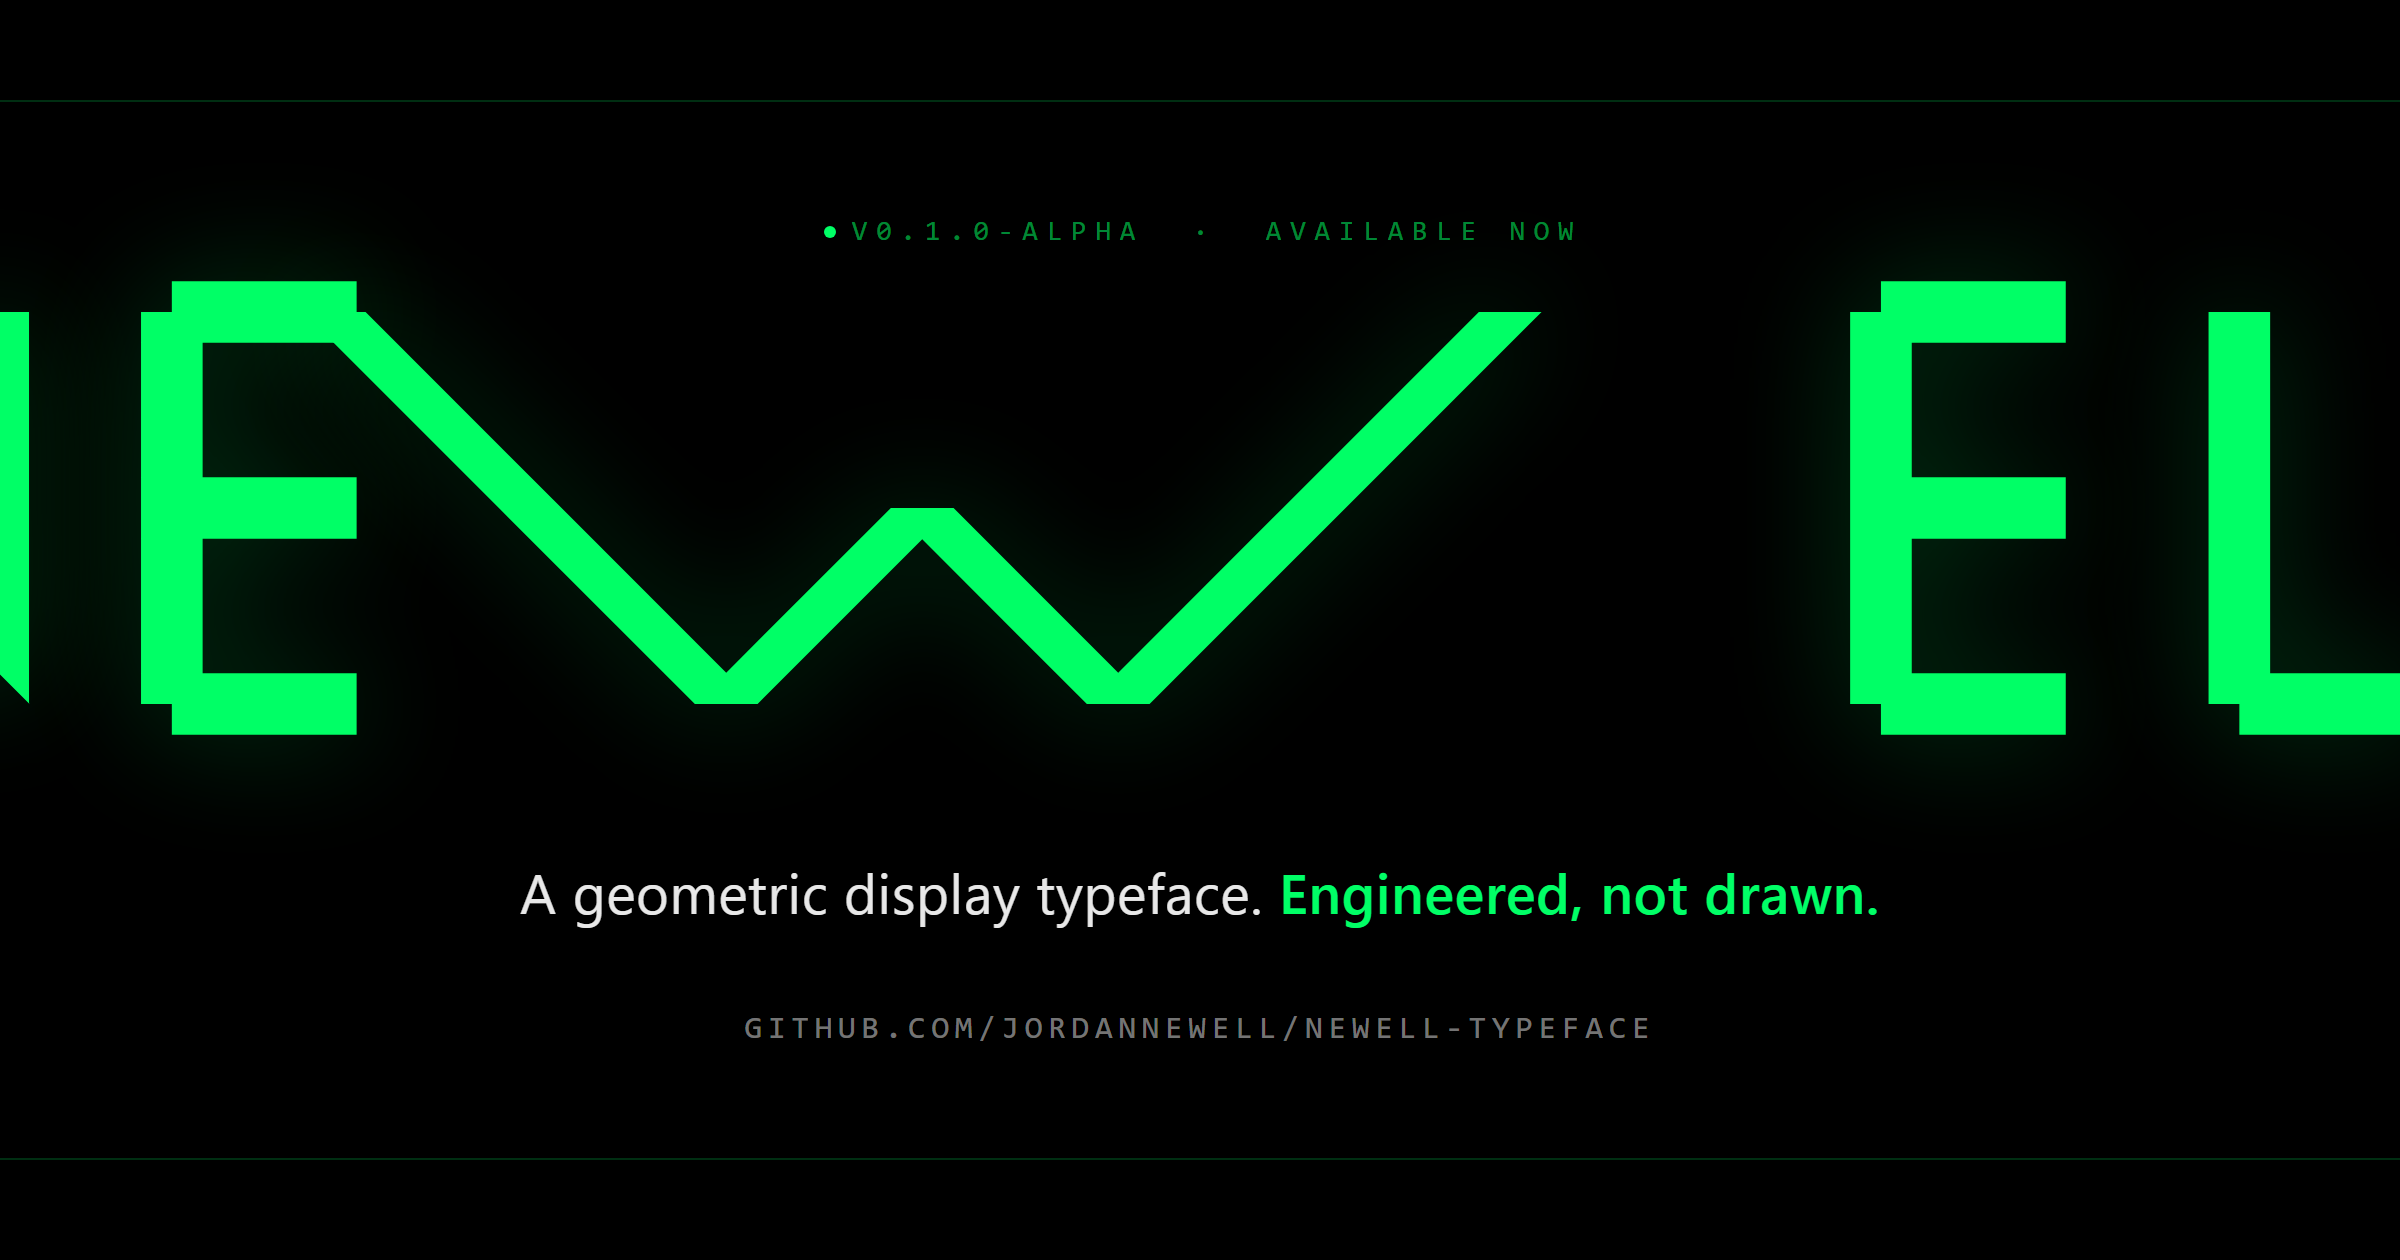
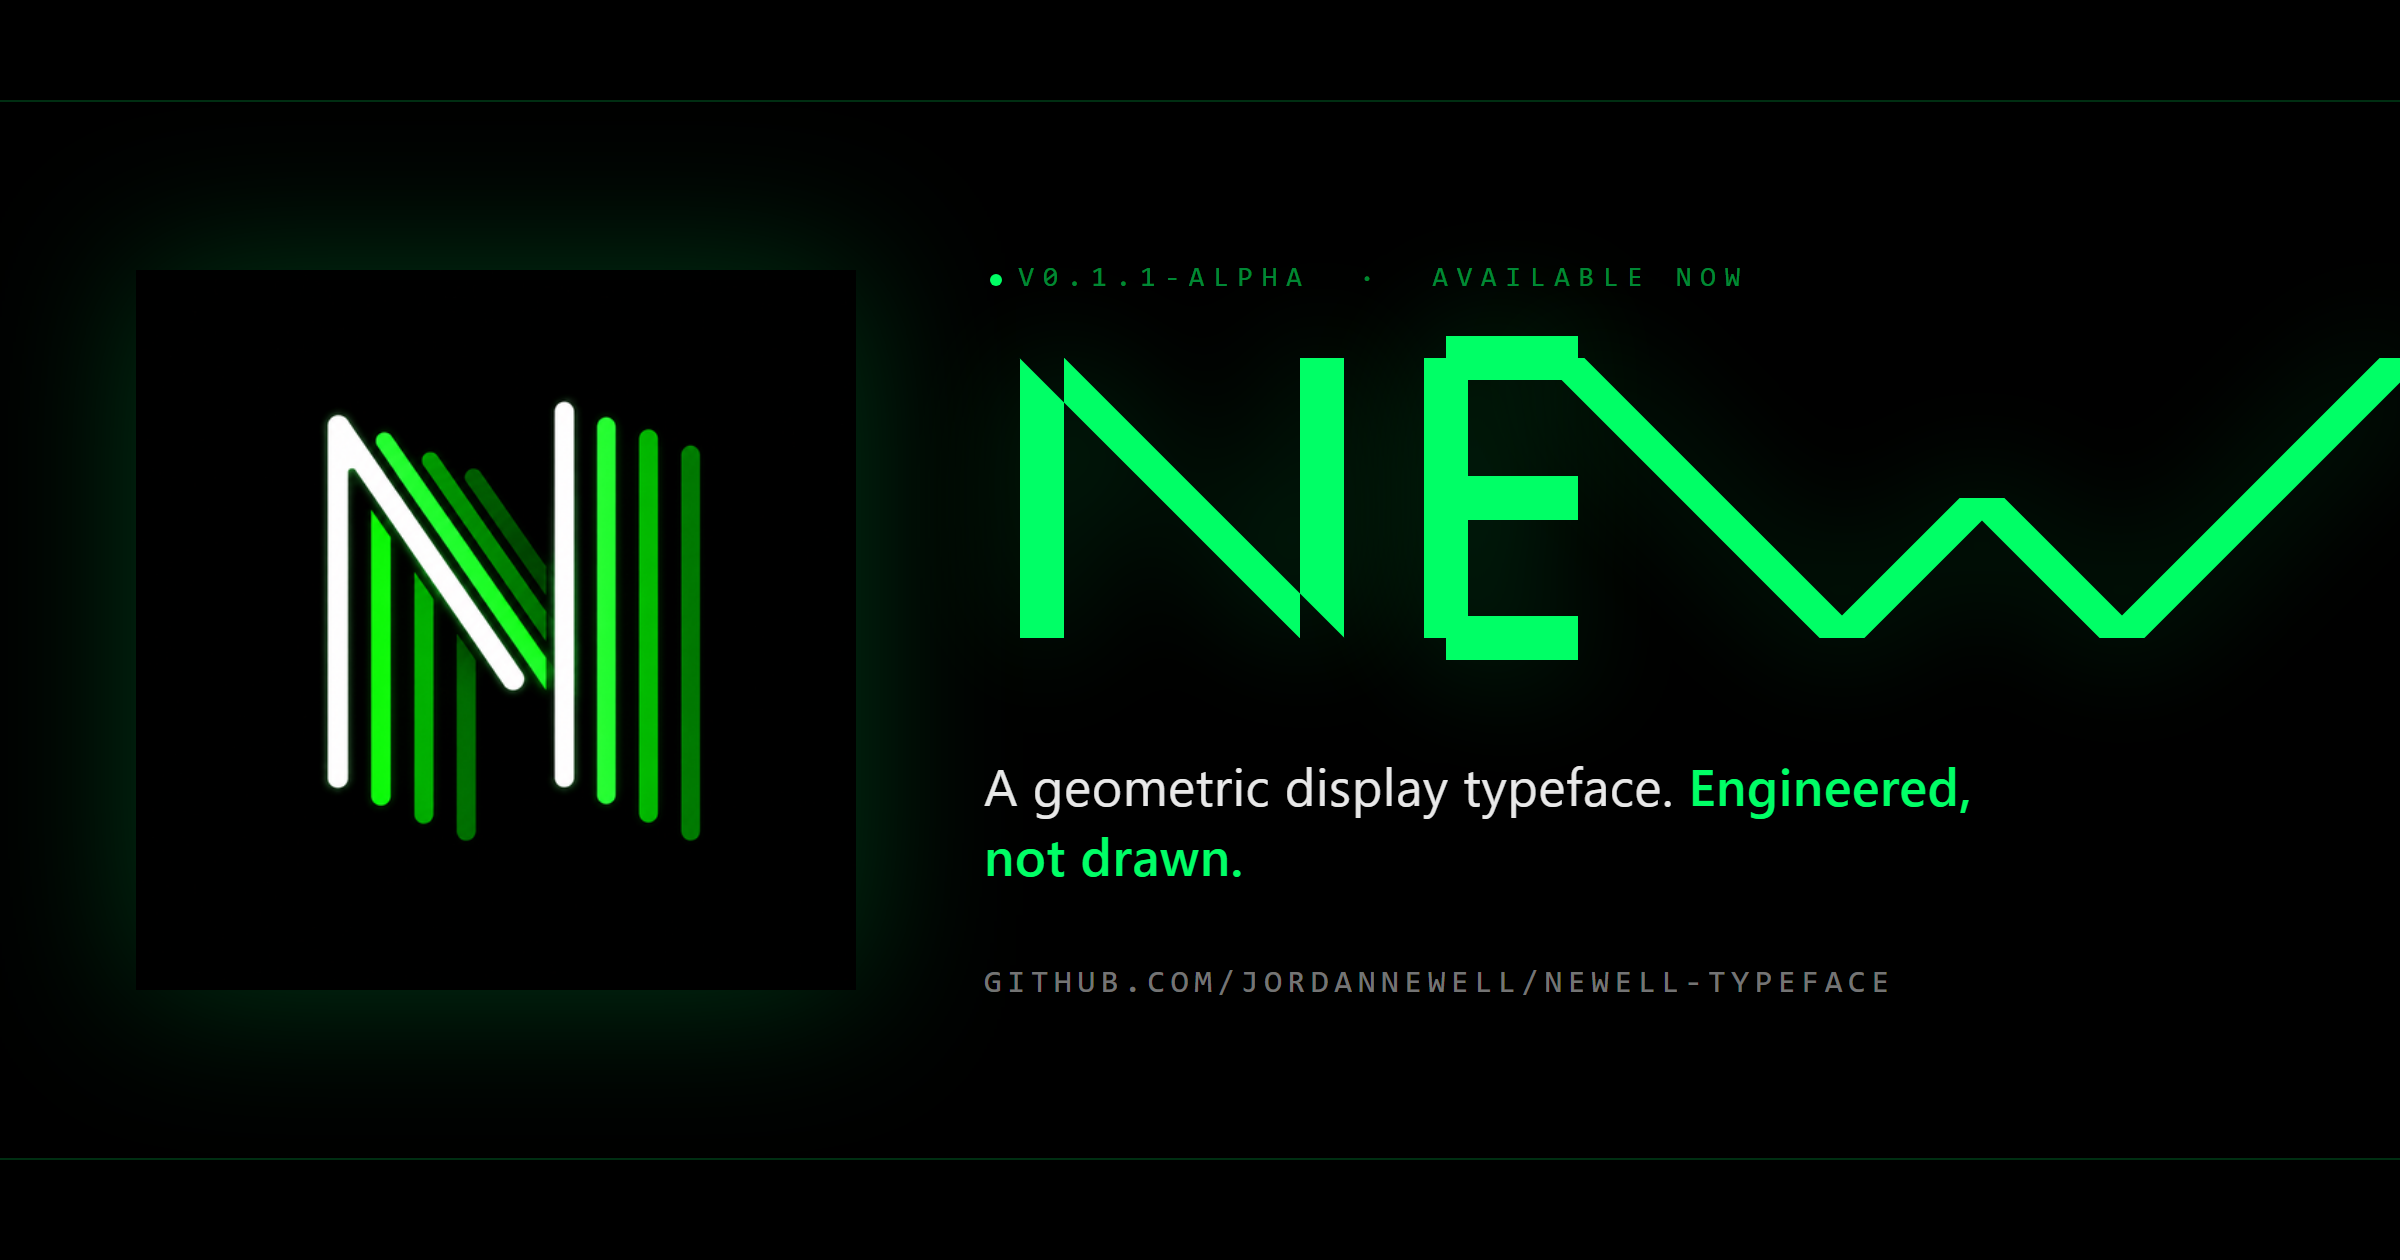
Refresh OG share image: new N-mark + v0.1.1-alpha
- og-image.html: split into horizontal layout (logo left, copy right),
  pull in assets/favicon-512.png as the new brand mark
- assets/og.png: re-render at 2400x1260 (2x of declared 1200x630)

diff --git a/og-image.html b/og-image.html
@@ -16,9 +16,10 @@
       color: #00FF66;
       font-family: system-ui, -apple-system, sans-serif;
       display: flex;
-      flex-direction: column;
+      flex-direction: row;
       justify-content: center;
       align-items: center;
+      gap: 64px;
       padding: 60px;
       position: relative;
     }
@@ -34,13 +35,28 @@
     body::before { top: 50px; }
     body::after  { bottom: 50px; }
 
+    .mark {
+      flex: 0 0 auto;
+      width: 360px;
+      height: 360px;
+      filter: drop-shadow(0 0 40px rgba(0, 255, 102, 0.22));
+    }
+
+    .copy {
+      flex: 0 1 auto;
+      max-width: 640px;
+      display: flex;
+      flex-direction: column;
+      align-items: flex-start;
+    }
+
     .eyebrow {
       font-family: ui-monospace, "SF Mono", Menlo, Consolas, monospace;
       font-size: 14px;
       letter-spacing: 0.32em;
       text-transform: uppercase;
       color: rgba(0, 255, 102, 0.55);
-      margin-bottom: 16px;
+      margin-bottom: 20px;
     }
     .eyebrow .dot {
       display: inline-block;
@@ -54,19 +70,20 @@
 
     .wordmark {
       font-family: "Newell", system-ui, sans-serif;
-      font-size: 280px;
+      font-size: 200px;
       line-height: 0.92;
       letter-spacing: 0.02em;
       text-shadow: 0 0 60px rgba(0, 255, 102, 0.22);
-      margin-bottom: 30px;
+      margin-bottom: 24px;
     }
 
     .tagline {
-      font-size: 28px;
+      font-size: 26px;
       color: #e8e8e8;
       font-weight: 400;
       letter-spacing: 0.01em;
-      margin-bottom: 40px;
+      margin-bottom: 36px;
+      max-width: 540px;
     }
     .tagline strong {
       color: #00FF66;
@@ -83,9 +100,12 @@
   </style>
 </head>
 <body>
-  <div class="eyebrow"><span class="dot"></span>v0.1.0-alpha &nbsp;·&nbsp; available now</div>
-  <div class="wordmark">NEWELL</div>
-  <div class="tagline">A geometric display typeface. <strong>Engineered, not drawn.</strong></div>
-  <div class="url">github.com/jordannewell/newell-typeface</div>
+  <img class="mark" src="assets/favicon-512.png" alt="Newell N mark">
+  <div class="copy">
+    <div class="eyebrow"><span class="dot"></span>v0.1.1-alpha &nbsp;·&nbsp; available now</div>
+    <div class="wordmark">NEWELL</div>
+    <div class="tagline">A geometric display typeface. <strong>Engineered, not drawn.</strong></div>
+    <div class="url">github.com/jordannewell/newell-typeface</div>
+  </div>
 </body>
 </html>
